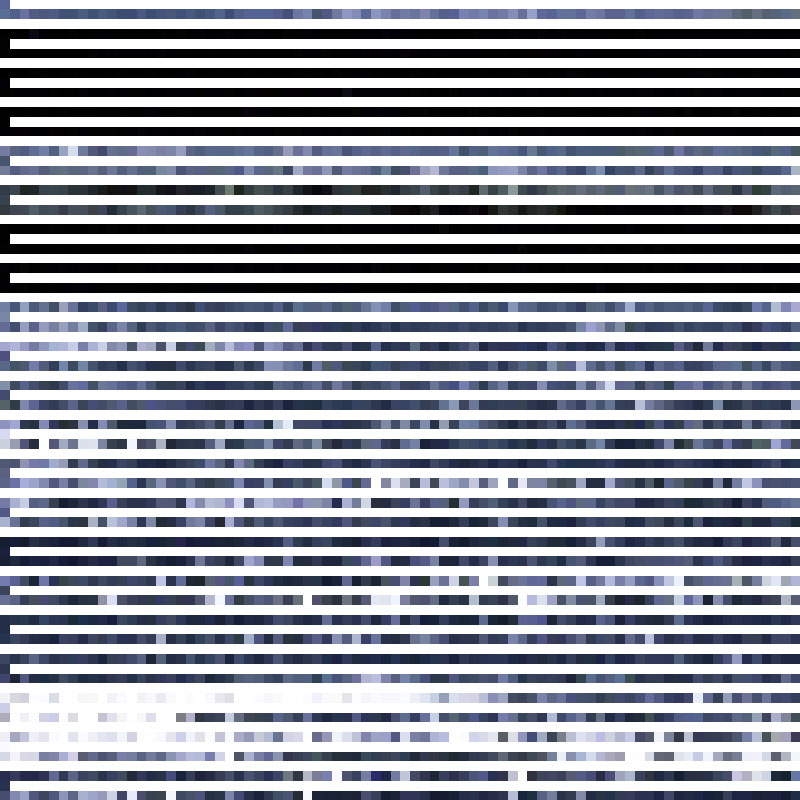
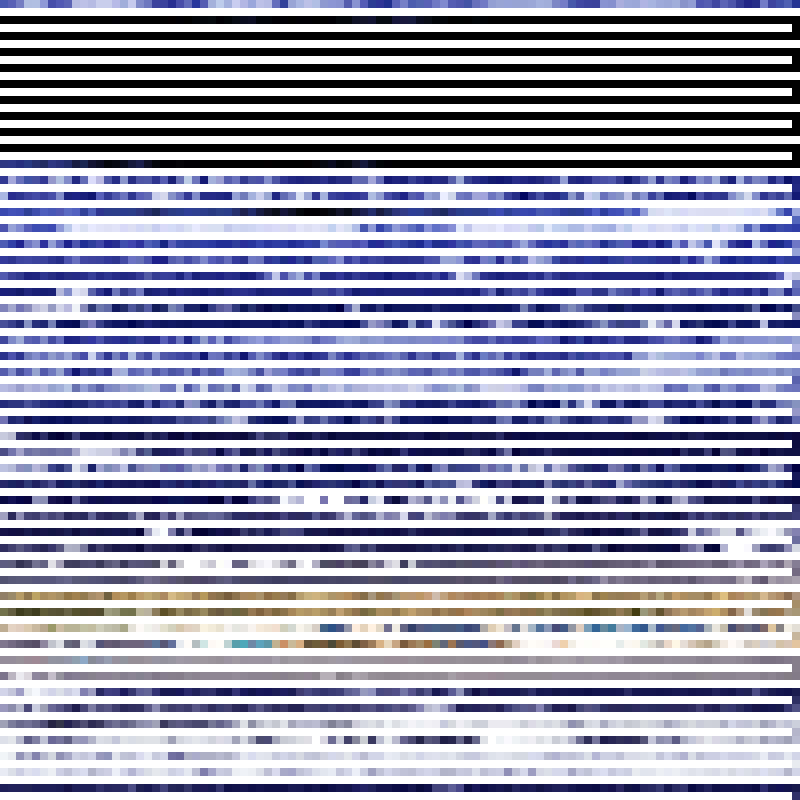
new post

diff --git a/css/style.scss b/css/style.scss
@@ -438,6 +438,11 @@ $log_padding_default:0.8rem;
 	font-size:0;
 	line-height:0;
 	}
+#proj #descrip ol {
+  font-size:14px;
+  line-height:1.2rem;
+	padding-left:2rem;
+	}
 
 #proj #post-nav {
 	display:block;

diff --git a/_posts/2019-04-11-unraveled-blue-marbles-2002.md b/_posts/2019-04-11-unraveled-blue-marbles-2002.md
@@ -16,6 +16,12 @@ images:
 tags:
   - static
 ---
-In the wake of recent [iconographic photographs of space](https://www.nytimes.com/2019/04/10/science/black-hole-picture.html), a closer look at the materials behind similarly impactful composite imagery.
+Revisiting NASA's _The Blue Marble 2002_[1] in the wake of another recently-released [iconic photograph of space](https://www.nytimes.com/2019/04/10/science/black-hole-picture.html).
 
-NASA's _The Blue Marble 2002_ composite satellite images of the earth. Each image is traversed, pixel-by-pixel, using a Hilbert curve. Each is then unraveled, snakelike, according to the newly ordered hues.
+Denis Cosgrove describes NASA's composite satellite images as "simultaneously 'true' representations and virtual spaces."[2] Each hemisphere is stitched together using four months' worth of satellite imagery[3], forming an impossible, cloudless representation of the earth from a perspective outside the boundaries of human vision.
+
+Here, each image is traversed, pixel-by-pixel, by a Hilbert curve. The curves are then unraveled, snakelike, revealing the digital strata of each composite.
+
+1. NASA Goddard Space Flight Center Image by Reto Stöckli (land surface, shallow water, clouds). Enhancements by Robert Simmon (ocean color, compositing, 3D globes, animation). Data and technical support: MODIS Land Group; MODIS Science Data Support Team; MODIS Atmosphere Group; MODIS Ocean Group Additional data: USGS EROS Data Center (topography); USGS Terrestrial Remote Sensing Flagstaff Field Center (Antarctica); Defense Meteorological Satellite Program (city lights). ([Source](https://visibleearth.nasa.gov/view.php?id=57723))
+2. Denis Cosgrove, _Apollo's Eye: A Cartographic Genealogy of the Earth in the Western Imagination_ (Baltimore: Johns Hopkins University Press, 2001), p. 257.
+3. Laura Kurgan, _Close Up at a Distance_ (New York: Zone Books, 2013), p. 12.

diff --git a/_posts/2014-06-01-joyce-ulysses-sirens-redux.md b/_posts/2014-06-01-joyce-ulysses-sirens-redux.md
@@ -26,10 +26,13 @@ tags:
   - text
   - digital humanities
 ---
-In reference to schemas for _Ulysses_, Joyce describes the compositional technique behind the "Sirens" episode as a "_fugue_ with all musical notations," and as including the "eight regular parts of a _fuga per canonem_." While the structure of the episode remains unresolved, this project is an attempt to track and classify all of the sounds that comprise it, and depict them as a graphic score.
+In reference to schemas for _Ulysses_, Joyce describes the compositional technique behind the "Sirens" episode as a "_fugue_ with all musical notations,"[1] and as including the "eight regular parts of a _fuga per canonem_."[2] While the structure of the episode remains unresolved, this project is an attempt to track and classify all of the sounds that comprise it, and depict them as a graphic score.
 
 The first 63 lines of the chapter introduce 99 words and syllables that reappear in different forms throughout the rest of the text. The sounds ultimately act as [leitmotifs](http://en.wikipedia.org/wiki/Leitmotif), evoking the sensory presence of different characters at different times.
 
 This visualization is constructed as a line-by-line annotation of each sound that recurs at least four times following its initial introduction. Within each line, each sound is grouped into repetitions, linked to its associated character(s), and sorted into one of three possible tiers based on its distance from the root sound. The lines are represented as columns.
 
 View the full interactive [here](/interactive/Y2014001). Built using Processing and D3.js.
+
+1. Joyce to Georges Borach, 18 June 1919, in Richard Ellmann, _James Joyce: New and Revised Edition_ (Oxford University Press, 1982), p. 459.
+2. Joyce to Harriet Weaver, 6 August 1919, in Ellmann, James Joyce, p. 462.
